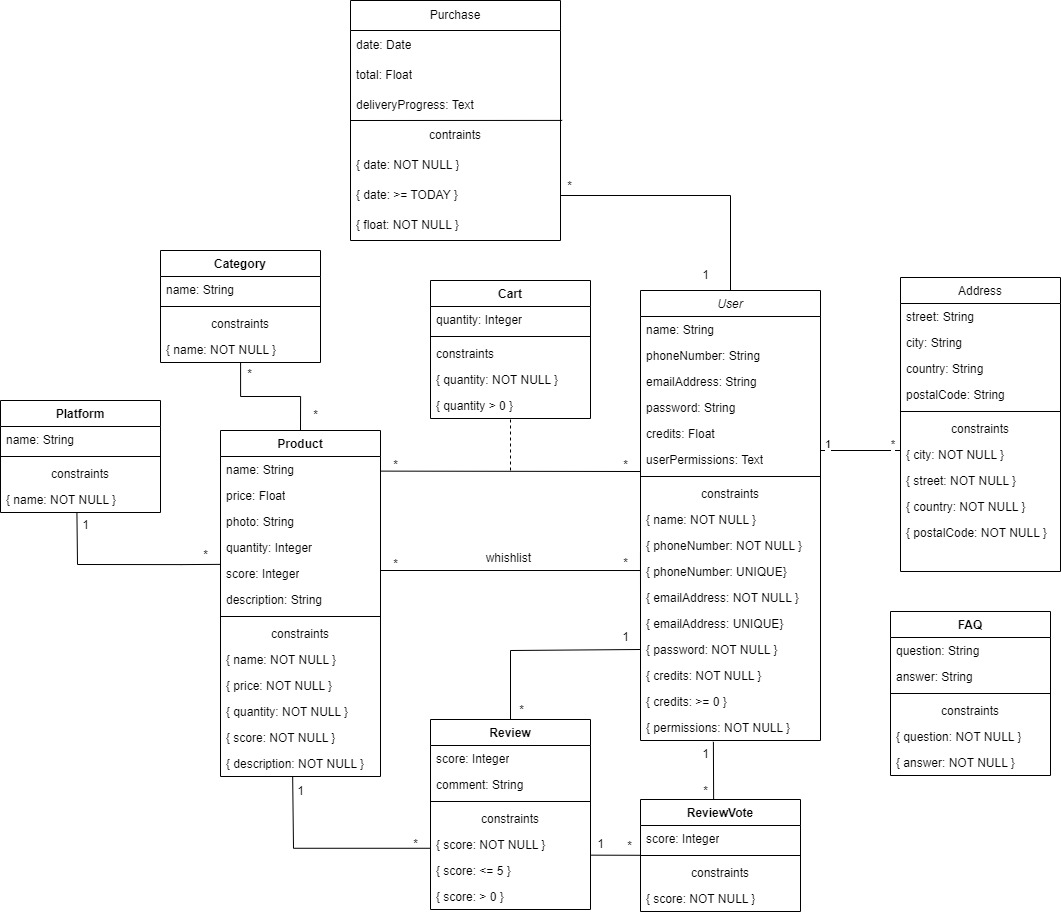
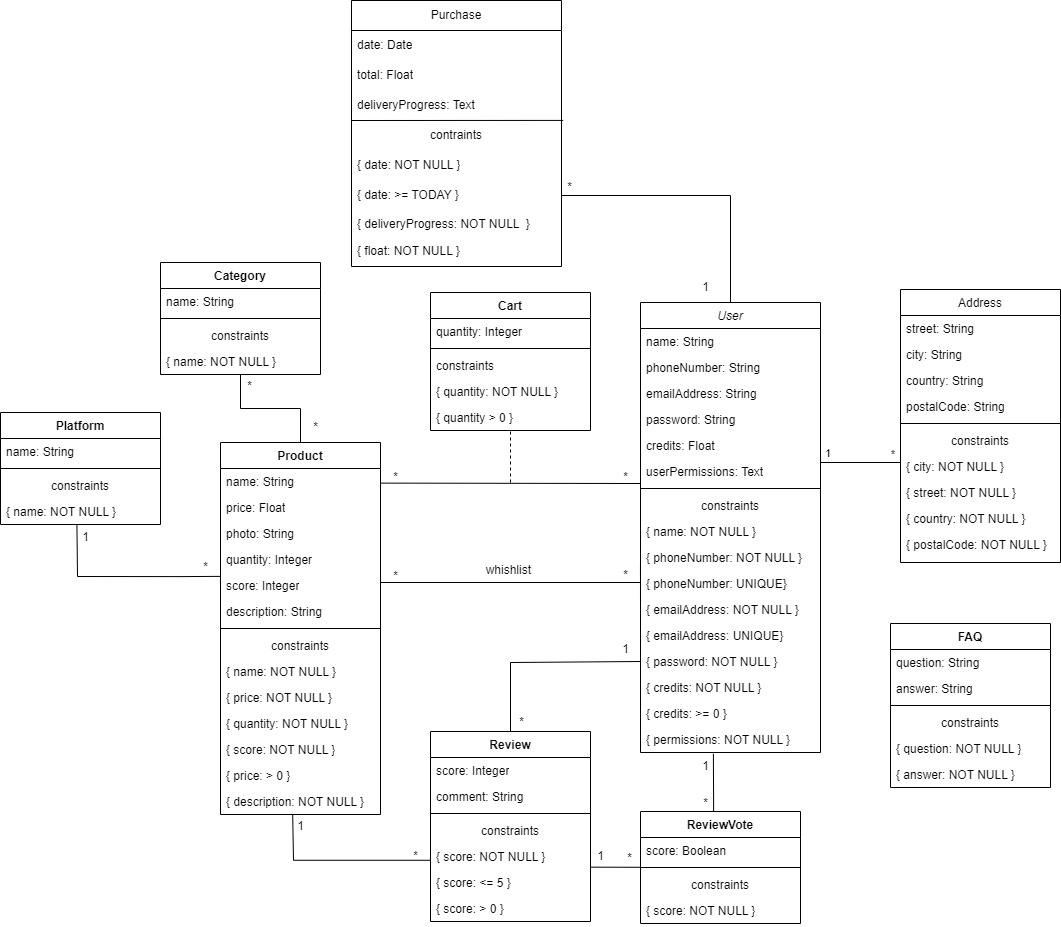
uml updated once again

diff --git a/documents/ebd.md b/documents/ebd.md
@@ -21,10 +21,8 @@ Additional business rules or restrictions are described in text as UML notes in 
 | BR01 | The total value of a purchase must be the sum of price of the purchased products. |
 | BR02 | Update products' score according to all existing reviews. |
 | BR03 | A user can only review a product that he has purchased. |
-| BR04 | A product's price must be a positive value. |
-| BR05 | A product must have its platform's required properties filled in. |
+| BR05 | A product must have its category's required properties filled in. |
 | BR06 | If the administrator removes a product, it will be removed from every cart and wishlist. |
-| - | - |
 | **BR07** | **A purchase's address must have to be in the user's addresses book.** |
 | **BR08** | **If the category has no products, it can not be added to the navigation bar. But, if that same category is in the navigation bar, it will be removed.** |
 
@@ -54,7 +52,7 @@ Relation schemas are specified using a textual compact notation.
 | R08                | cart (<u>id</u>, productId -> product, userId -> user, quantity __NN__ __CK__ > 0) |
 | R09                | wishlist (<u>id</u>, productId -> product, userId -> user) |
 | R10                | purchase (<u>id</u>, userId -> user, date __NN__ __CK__ >= TODAY, total __NN__ __CK__ > 0, deliveryProgress) |
-| R1                | faq (<u>id</u>, question __NN__, answer __NN__)
+| R11                | faq (<u>id</u>, question __NN__, answer __NN__)
 
 Legend:
 
